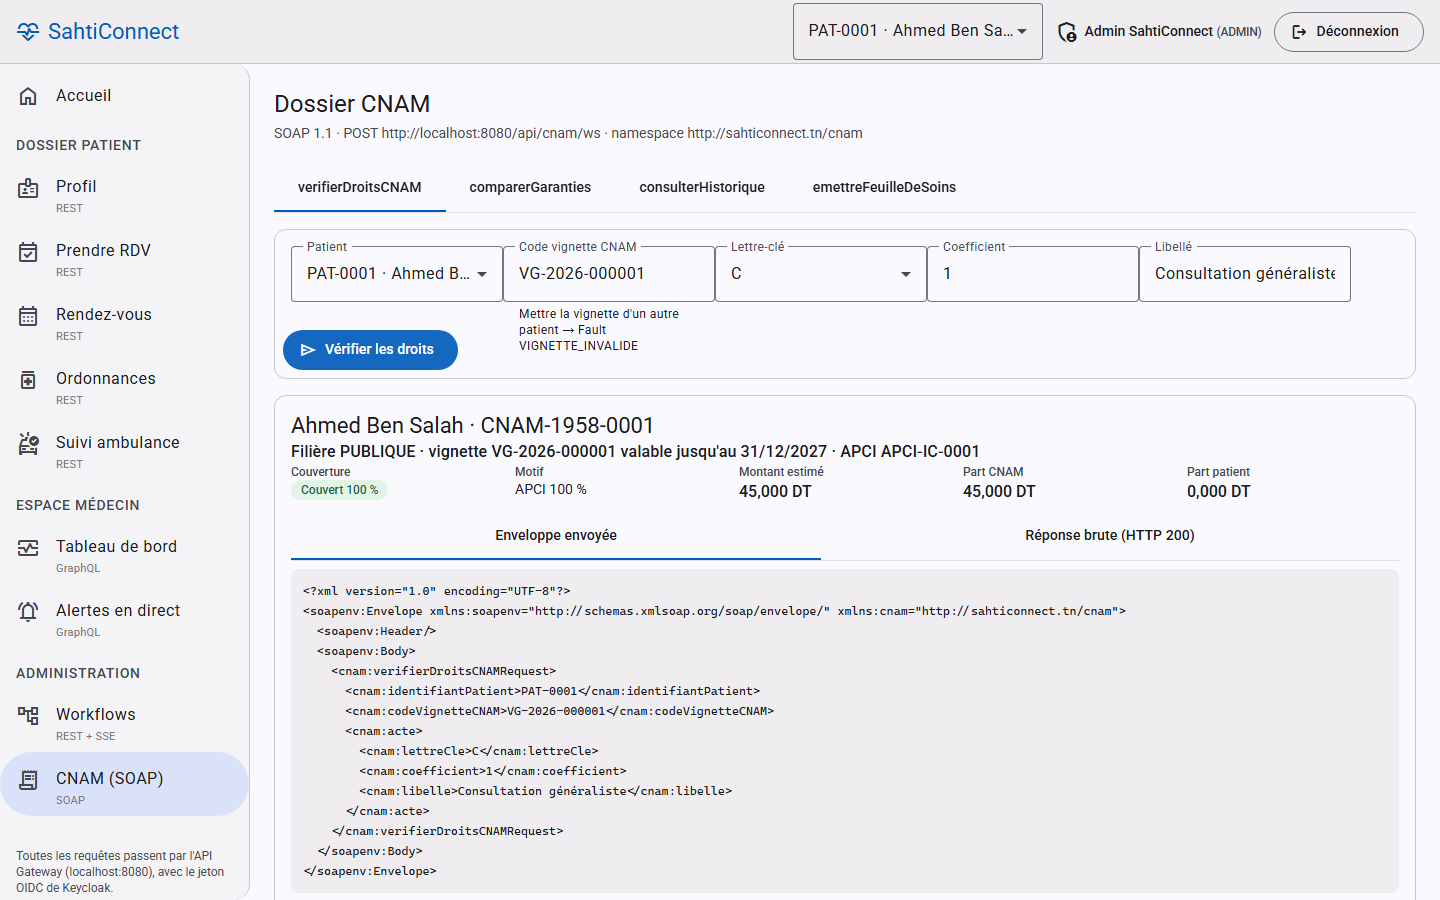
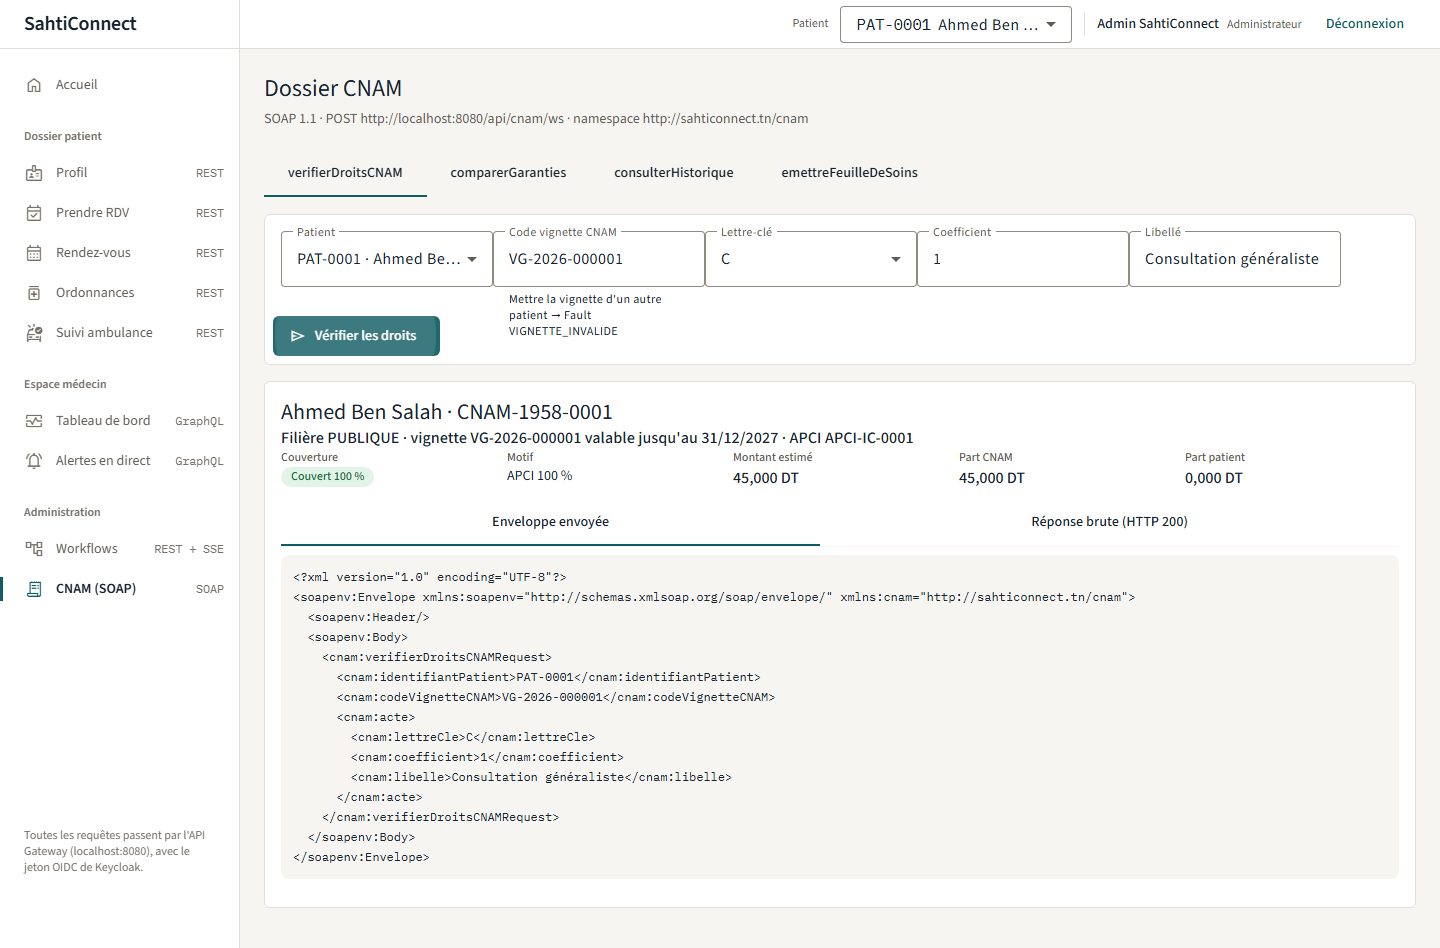
Refonte visuelle phase A : captures avant/apres (docs/captures/refonte/, memes donnees, 1440 x 900) et captures regenerees

diff --git a/web-client/e2e/refonte.e2e.ts b/web-client/e2e/refonte.e2e.ts
@@ -1,0 +1,35 @@
+import { expect, test } from '@playwright/test';
+import { seConnecter } from './outils';
+
+/**
+ * Captures avant/après de la refonte visuelle (docs/captures/refonte/), mêmes données et même fenêtre (1440 × 900) :
+ *   $env:REFONTE='avant'; $env:REFONTE_WF_CRITIQUE='WF-…'; $env:REFONTE_WF_COMPENSE='WF-…'; npx playwright test refonte
+ * Ignoré sans REFONTE (ne réécrit pas les captures à chaque exécution des tests).
+ */
+const phase = process.env['REFONTE'];
+const DOSSIER = '../docs/captures/refonte';
+
+test.describe.configure({ mode: 'serial' });
+test.skip(!phase, 'captures de la refonte : définir REFONTE=avant ou REFONTE=apres');
+
+test('fiche patient', async ({ page }) => {
+  await seConnecter(page, 'admin');
+  await page.goto('/medecin/patients/PAT-0001');
+  await expect(page.getByTestId('couverture')).toBeVisible();
+  await expect(page.locator('h1')).toContainText('Ben Salah');
+  await page.waitForTimeout(2000); // constantes, graphique et historique
+  await page.screenshot({ path: `${DOSSIER}/${phase}-fiche-patient.png`, fullPage: true });
+});
+
+for (const [nom, variable] of [['workflow-critique', 'REFONTE_WF_CRITIQUE'], ['workflow-compense', 'REFONTE_WF_COMPENSE']]) {
+  test(nom, async ({ page }) => {
+    const id = process.env[variable];
+    test.skip(!id, `${variable} non défini`);
+    await seConnecter(page, 'admin');
+    await page.goto(`/admin/workflows?id=${id}`);
+    await expect(page.getByTestId('detail-workflow')).toBeVisible();
+    await expect(page.getByTestId('etat-flux')).toContainText('connecté');
+    await page.waitForTimeout(1000);
+    await page.screenshot({ path: `${DOSSIER}/${phase}-${nom}.png`, fullPage: true });
+  });
+}
